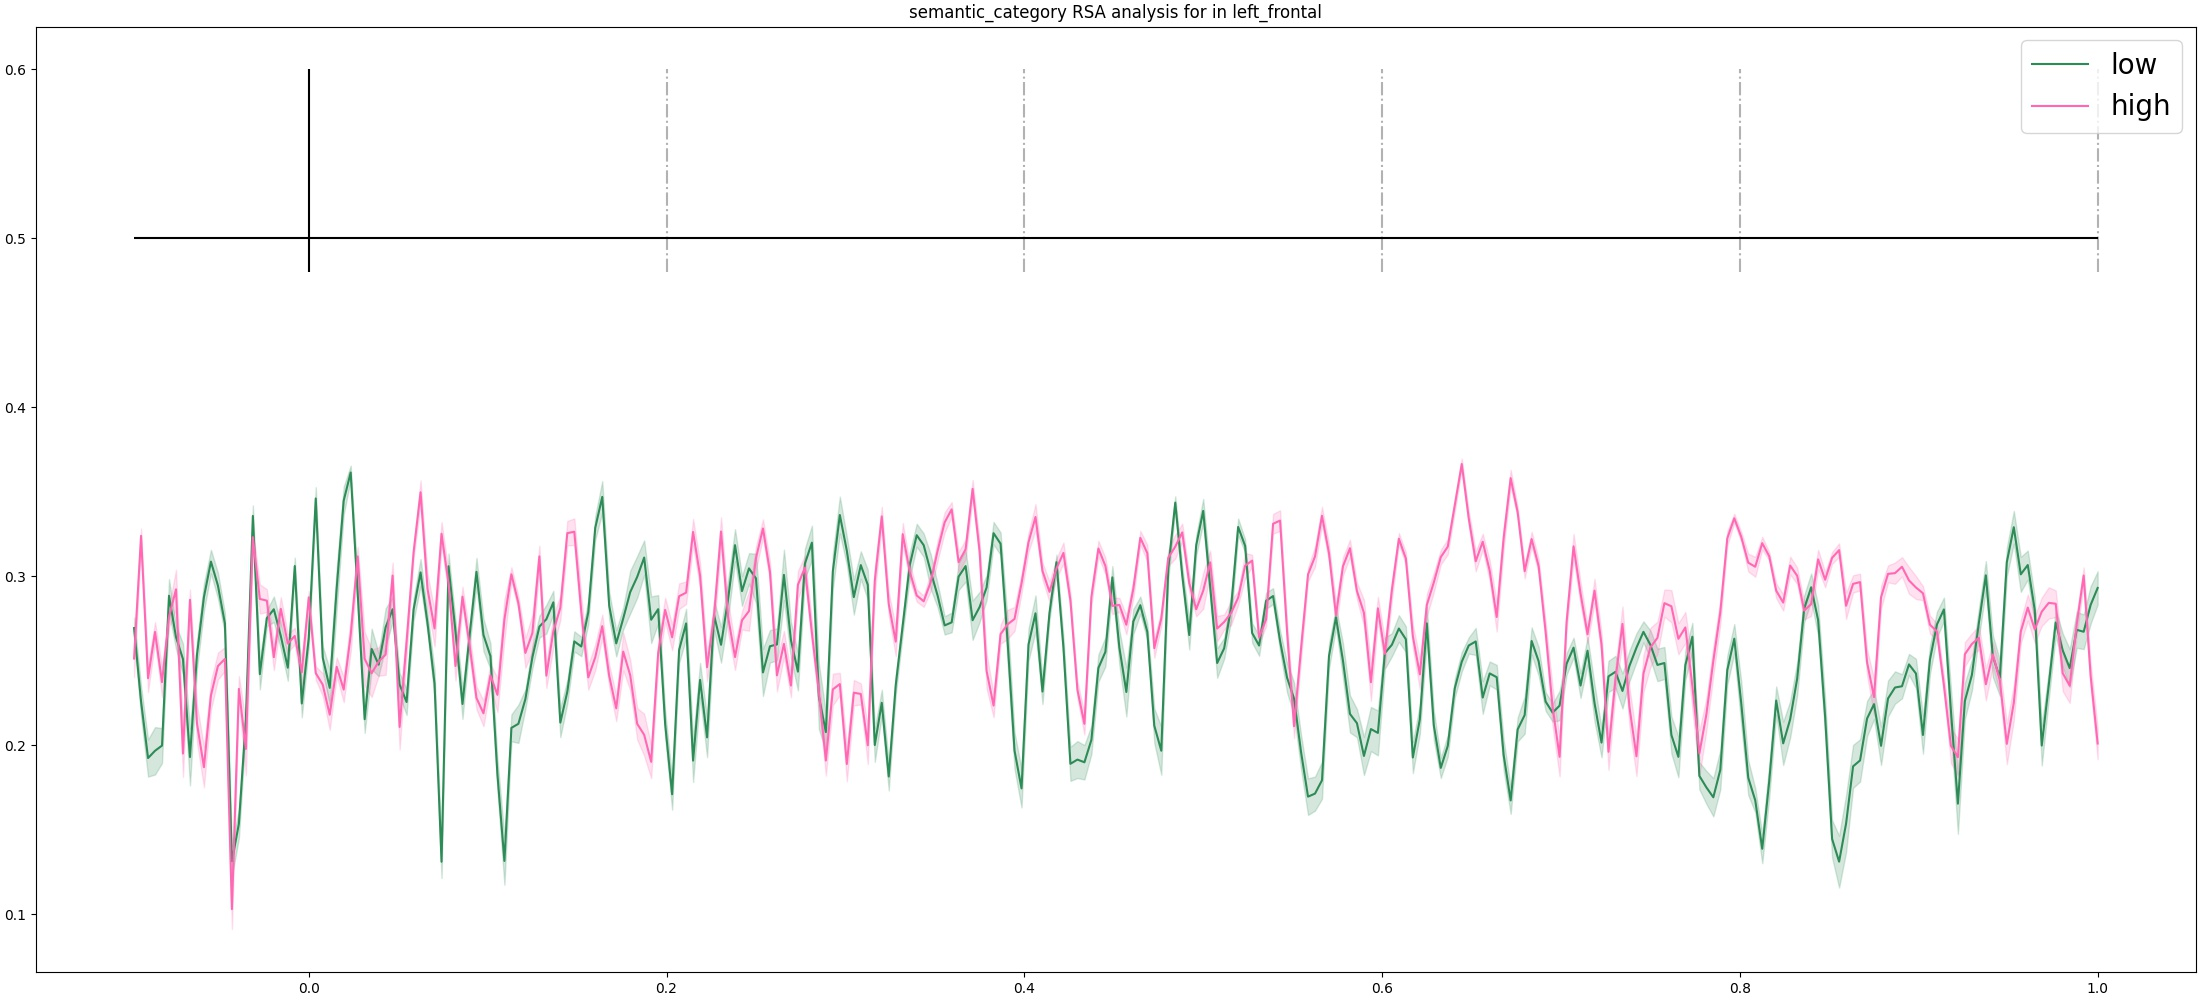
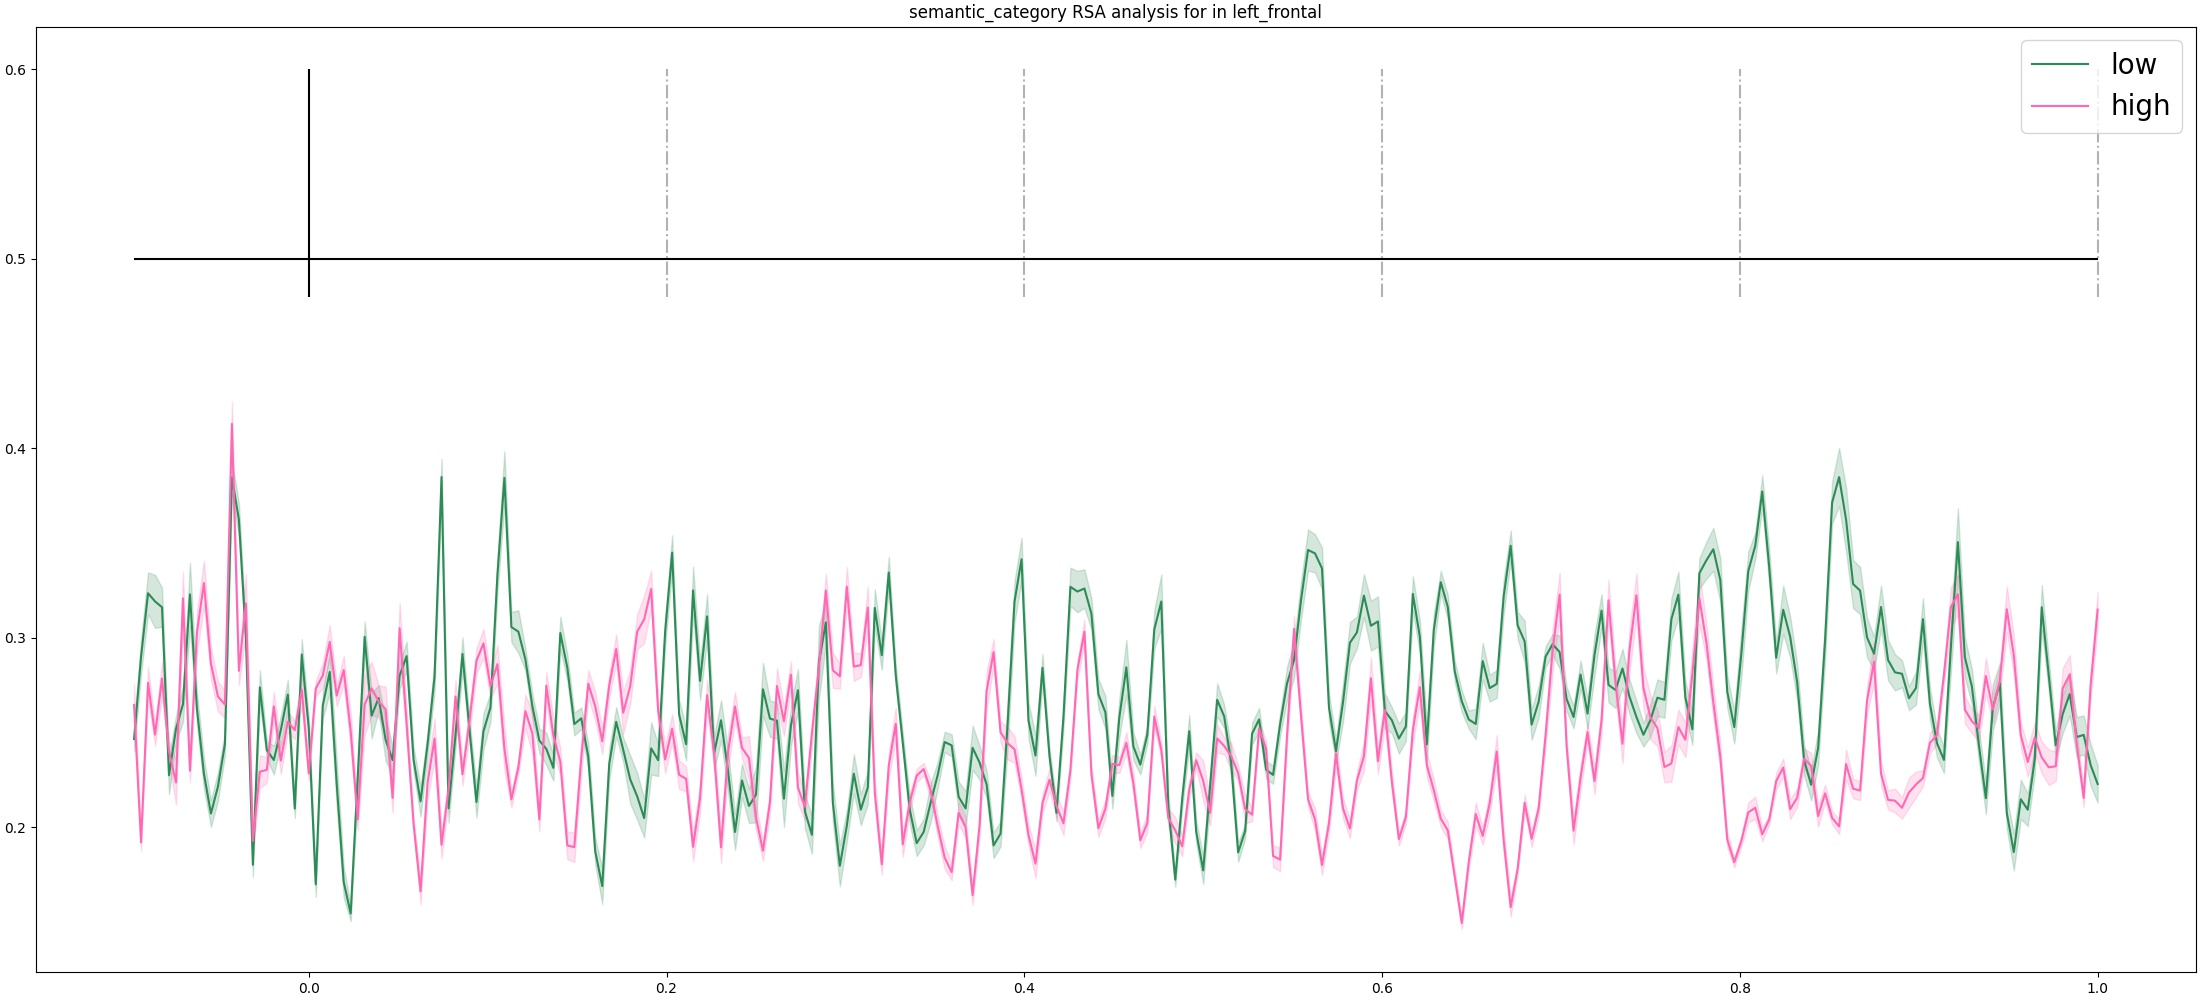
new plots

Changed region(s): [[0.0618, 0.465, 0.9582, 0.899]]

diff --git a/04_rsa_simple.py b/04_rsa_simple.py
@@ -49,8 +49,8 @@ def compute_pairwise(t):
     accuracies = list()
     for w_one, w_two in combs:
         rsa_model = [distances[model][tuple(sorted(c))] for c in combs]
-        pred_one = numpy.average([t_data[w]*-distances[model][tuple(sorted([w, w_one]))] for w in t_data.keys() if w not in [w_one, w_two]], axis=0)
-        pred_two = numpy.average([t_data[w]*-distances[model][tuple(sorted([w, w_two]))] for w in t_data.keys() if w not in [w_one, w_two]], axis=0)
+        pred_one = numpy.average([t_data[w]*distances[model][tuple(sorted([w, w_one]))] for w in t_data.keys() if w not in [w_one, w_two]], axis=0)
+        pred_two = numpy.average([t_data[w]*distances[model][tuple(sorted([w, w_two]))] for w in t_data.keys() if w not in [w_one, w_two]], axis=0)
         ### match
         match = 0.
         match += scipy.stats.pearsonr(pred_one, t_data[w_one])[0]
@@ -67,6 +67,15 @@ def compute_pairwise(t):
     #corr = scipy.stats.pearsonr(rsa_model, t_corrs)[0]
     corr = numpy.average(accuracies)
     return (t, corr)
+
+def minus_one_one_norm(vectors):
+    labels = [k[1] for k in vectors]
+    names = [k[0] for k in vectors]
+    norm_labels = [int(2*((x-min(labels))/(max(labels)-min(labels)))-1) for x in labels]
+    assert min(norm_labels) == -1
+    assert max(norm_labels) == 1
+    vectors = {n : l for n, l in zip(names, labels)}
+    return vectors
 
 parser = argparse.ArgumentParser()
 parser.add_argument('--folder', type=str, required=True)
@@ -147,21 +156,25 @@ distances['perceptual'] = dict()
 for w_one, w_two in all_combs:
     vec_one = [norms[s][w_one] for s in senses]
     vec_two = [norms[s][w_two] for s in senses]
-    distances['perceptual'][(w_one, w_two)] = scipy.spatial.distance.euclidean(vec_one, vec_two)
+    distances['perceptual'][(w_one, w_two)] = 1 - scipy.stats.pearsonr(vec_one, vec_two)[0]
 ### levenshtein
 distances['levenshtein'] = dict()
 for w_one, w_two in all_combs:
     distances['levenshtein'][(w_one, w_two)] = levenshtein(w_one, w_two)
 
+### scaling in -1 to +1
+for h, h_scores in distances.items():
+    distances[h] = minus_one_one_norm(h_scores.items())
+
 general_folder = 'rsa_plots'
 
 for model in [
+              'semantic_category', 
               'levenshtein',
               'perceptual',
               'concreteness',
               'aoa',
               'word_length', 
-              'semantic_category', 
               ]:
     out_folder = os.path.join(general_folder, model, args.evaluation)
     os.makedirs(out_folder, exist_ok=True)
